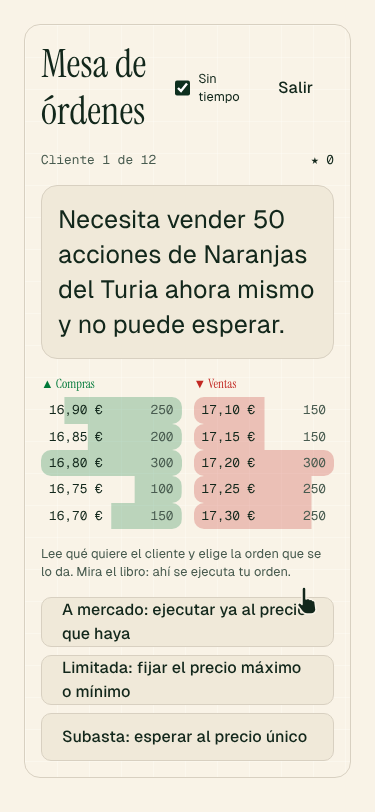
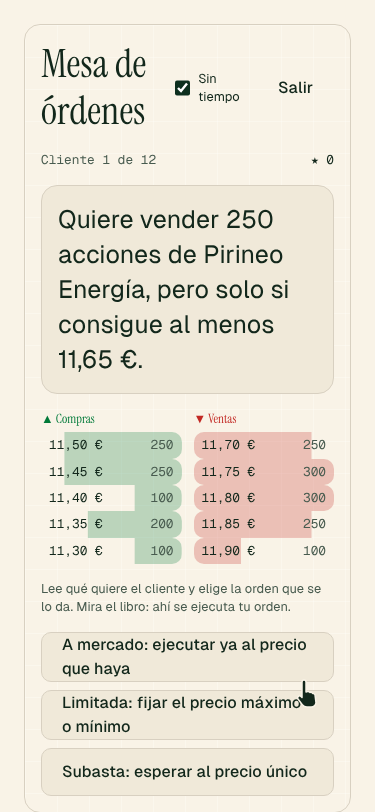
content: n5-u6 revisada (reviewed) tras la ronda 3; planta 4 (N5) completa
Claude-Session: https://claude.ai/code/session_01MmSrs1YdgLJhPMsRgWQM9q

Changed region(s): [[0.088, 0.2463, 0.9093, 0.9852]]

diff --git a/playwright.config.ts b/playwright.config.ts
@@ -75,6 +75,7 @@ export default defineConfig({
         'n5u3.spec.ts',
         'n5u4.spec.ts',
         'n5u5.spec.ts',
+        'n5u6.spec.ts',
         'hardening.spec.ts',
         'practicar.spec.ts',
         'sesion.spec.ts',

diff --git a/docs/TEMARIO.md b/docs/TEMARIO.md
@@ -91,7 +91,7 @@ PIB, IPC, paro, PMI · calendario macro · BCE, Fed, Banco de España, QE/QT · 
 Libro de órdenes · market makers, HFT, dark pools · subastas · costes reales de operar · cortos y préstamo de valores · análisis técnico con mirada crítica (evidencia y por qué la mayoría del minorista pierde) · eficiencia de mercado (formas débil, semifuerte y fuerte) y anomalías · gestión del riesgo de una operación (stop, tamaño de posición).
 🧮 probabilidad, valor esperado, contraste de hipótesis, p-valor e intervalos de confianza · 🏛 regla de los dos meses, compensación de pérdidas · 🧠 exceso de confianza, aversión a la pérdida · 📊 SI, BUSCARX · 📄 informe de la CNMV sobre resultados de inversores minoristas en CFD (o equivalente vigente).
 
-**Unidades de la planta 4 y su juego** (decididas el 25/10/2026; cada unidad abre con una tarjeta «Ya sabes» de lo visto en N1 y pasa a lo nuevo): 1. Libro de órdenes, market makers y dark pools (`n5-u1`: profundidad e impacto en pb, participación en el volumen, horquilla efectiva y realizada, selección adversa, market makers e inventario, HFT, dark pools y límites de volumen de MiFID II/MiFIR; explicador `MarketImpact`) → **Mesa de órdenes** (`n5-u1-l1`, ficha 3 en versión N5, hecho). 2. Subastas, fixing y costes reales de operar (`n5-u2`: subasta de cierre y fondos indexados, rangos estático y dinámico y subasta de volatilidad, fixing, VWAP y TWAP, implementation shortfall con coste de retraso y de oportunidad, comisiones y cánones, impuesto sobre las transacciones financieras, costes implícitos y ritmo de ejecución; explicador nuevo `CostStack`) → **Contra el VWAP** (`n5-u2-l1`, juego nuevo, hecho). 3. Ventas en corto y préstamo de valores (`n5-u3`: préstamo de valores, comisión y garantía, dividendo manufacturado, pérdida ilimitada frente a ganancia máxima del 100 %, margin call, días para cubrir y short squeeze, Reglamento (UE) 236/2012 con los umbrales del 0,1 % y el 0,5 % y las prohibiciones temporales, cobertura, long-short, arbitraje de fusiones y bajistas activistas; explicador `ShortSelling`) → **La posición corta** (`n5-u3-l1`, juego nuevo, hecho). 4. Probabilidad, valor esperado y contraste de hipótesis (`n5-u4`: valor esperado de una estrategia y punto muerto, desviación típica de una operación y error típico de la media, ley de los grandes números, probabilidad condicionada y Bayes con falsos positivos, hipótesis nula, p-valor, errores de tipo I y II, t ≈ Sharpe × √años, multiple testing, Bonferroni y data snooping; parte de n2-u4; explicador `ExpectedValue`) → **¿Ventaja real?** (`n5-u4-l1`, juego nuevo, hecho). 5. Análisis técnico, eficiencia de mercado y por qué pierde el minorista (`n5-u5`: soportes, resistencias, medias móviles y momentum con su evidencia, series aleatorias que parecen patrones, resultados después de costes, sesgo de supervivencia y anomalías que se van, eficiencia débil, semifuerte y fuerte, rentabilidad anormal, costes y rotación del minorista, CFD con las medidas de la ESMA y la CNMV; explicador `MarginCall`) → **¿Patrón o ruido?** (`n5-u5-l1`, juego nuevo, hecho). 6. Stop, tamaño de posición y sesgos al operar (`n5-u6`: stop loss y take profit, riesgo por operación y tamaño de posición, huecos, relación riesgo/beneficio, acierto mínimo y esperanza en R, exceso de confianza, aversión a la pérdida y efecto disposición, diario de operaciones con SI y BUSCARX; explicador `PositionSizing`) → **El trader con stop** (`n5-u6-l1`, variante de «El trader impulsivo» sobre `impulsive.ts`, draft).
+**Unidades de la planta 4 y su juego** (decididas el 25/10/2026; cada unidad abre con una tarjeta «Ya sabes» de lo visto en N1 y pasa a lo nuevo): 1. Libro de órdenes, market makers y dark pools (`n5-u1`: profundidad e impacto en pb, participación en el volumen, horquilla efectiva y realizada, selección adversa, market makers e inventario, HFT, dark pools y límites de volumen de MiFID II/MiFIR; explicador `MarketImpact`) → **Mesa de órdenes** (`n5-u1-l1`, ficha 3 en versión N5, hecho). 2. Subastas, fixing y costes reales de operar (`n5-u2`: subasta de cierre y fondos indexados, rangos estático y dinámico y subasta de volatilidad, fixing, VWAP y TWAP, implementation shortfall con coste de retraso y de oportunidad, comisiones y cánones, impuesto sobre las transacciones financieras, costes implícitos y ritmo de ejecución; explicador nuevo `CostStack`) → **Contra el VWAP** (`n5-u2-l1`, juego nuevo, hecho). 3. Ventas en corto y préstamo de valores (`n5-u3`: préstamo de valores, comisión y garantía, dividendo manufacturado, pérdida ilimitada frente a ganancia máxima del 100 %, margin call, días para cubrir y short squeeze, Reglamento (UE) 236/2012 con los umbrales del 0,1 % y el 0,5 % y las prohibiciones temporales, cobertura, long-short, arbitraje de fusiones y bajistas activistas; explicador `ShortSelling`) → **La posición corta** (`n5-u3-l1`, juego nuevo, hecho). 4. Probabilidad, valor esperado y contraste de hipótesis (`n5-u4`: valor esperado de una estrategia y punto muerto, desviación típica de una operación y error típico de la media, ley de los grandes números, probabilidad condicionada y Bayes con falsos positivos, hipótesis nula, p-valor, errores de tipo I y II, t ≈ Sharpe × √años, multiple testing, Bonferroni y data snooping; parte de n2-u4; explicador `ExpectedValue`) → **¿Ventaja real?** (`n5-u4-l1`, juego nuevo, hecho). 5. Análisis técnico, eficiencia de mercado y por qué pierde el minorista (`n5-u5`: soportes, resistencias, medias móviles y momentum con su evidencia, series aleatorias que parecen patrones, resultados después de costes, sesgo de supervivencia y anomalías que se van, eficiencia débil, semifuerte y fuerte, rentabilidad anormal, costes y rotación del minorista, CFD con las medidas de la ESMA y la CNMV; explicador `MarginCall`) → **¿Patrón o ruido?** (`n5-u5-l1`, juego nuevo, hecho). 6. Stop, tamaño de posición y sesgos al operar (`n5-u6`: stop loss y take profit, riesgo por operación y tamaño de posición, huecos, relación riesgo/beneficio, acierto mínimo y esperanza en R, exceso de confianza, aversión a la pérdida y efecto disposición, diario de operaciones con SI y BUSCARX; explicador `PositionSizing`) → **El trader con stop** (`n5-u6-l1`, variante de «El trader impulsivo» sobre `impulsive.ts`, hecho). La planta 4 está completa.
 
 **Planta 5 · Director — Carteras, riesgo y alternativos (N6, sem. 34–38)**
 Rentabilidad simple/log, TWR vs MWR · volatilidad, correlación, diversificación · Markowitz · CAPM y beta (estimación por regresión, beta ajustada y errores típicos; amplía lo visto en N3) · Sharpe, Sortino, ratio de información y tracking error, drawdown · VaR y CVaR · factores · pasiva vs activa, atribución de resultados (Brinson-Fachler) · **alternativos como inversión:** private equity, hedge funds, deuda privada, infraestructuras · ESG y SFDR · asset allocation (media-varianza, Black-Litterman y paridad de riesgo a nivel intuitivo) y rebalanceo · **Monte Carlo** y **trampas del backtesting** · efecto compuesto de las comisiones.

diff --git a/CONTENIDO-QA.md b/CONTENIDO-QA.md
@@ -608,3 +608,16 @@ Abre la planta 0 (unidad `n1-u1`). Juego: cinco noticias de Naranjas del Turia; 
 - **Ronda 2:** q12 pasa a «Muchas anomalías rinden menos después de publicarse».
 - **Ronda 3:** aprobada. Estado: `reviewed`. Bloom de aplicar o analizar: 7, 7, 6, 6 y 7 de 8, y 9 de 10. e2e de producción `n5u5.spec.ts`: pasa.
 - 🛑 Pendiente de la revisión de Javier: las cifras de Barber y Odean (2000), las medidas de la ESMA (2018) y de la CNMV (2019) sobre CFD y su estimación del 74 al 89 %, y el Anexo II de MiFID II. Las fuentes se citan por su URL raíz «(pendiente de verificar la ruta)».
+
+## n5-u6 — Stop, tamaño de posición y sesgos al operar y lección-juego «El trader con stop» (31/10/2026)
+
+- **Ronda 1 (revisor-financiero):** cambios necesarios.
+  - Mayores aplicados:
+    - l6-e5: 10.000 × 0,98^8 = 8.507,63 € (decía 8.507,46). La tolerancia lo absorbía, así que el validador estrena la regla `respuesta-redondeo`: answer debe ser la fórmula redondeada a answerDecimals, ± media unidad. Pasada por todo el contenido, solo detectó este caso;
+    - ejercicios de hoja de cálculo con casos ocultos que cambian el valor buscado por BUSCARX (el esquema admite textos en `hiddenCases.set`) y casos nuevos en l5-e2. El evaluador incorpora SI.ERROR, perezoso;
+    - l2-e1 y l2-e3 con el stop a un 4-10 % de la entrada (la posición nunca supera el 50 % del capital); l2-e6 solo con pasos de dependencia estricta;
+    - test de salto: q7 sobre los rangos de BUSCARX (fill_blank, porque el banco no admite hojas de cálculo) y q12 sobre el resultado de Odean (1998).
+  - Menores: la tarjeta «Tamaño» de l1 ya no da la posición en €; l2-e5 con 20.000 €, un 3 % y 8 pérdidas (15.674,87 €); l6-e2 con 1:2,25; l3-e4 y l4-e6 reformulados; cita de Tversky y Kahneman (1992) para el coeficiente de aversión a la pérdida; textos del juego sobre el stop sin hueco y la tentación; l5-e3 con 200 acciones.
+- **Ronda 2:** los suelos con ROUND(x − 0,5; 0) fallaban por coma flotante (249 en vez de 250). Ahora llevan un margen de 1e-9 y un test barre la rejilla completa de sus parámetros contra un suelo calculado en enteros.
+- **Ronda 3:** aprobada. Estado: `reviewed`. Bloom de aplicar o analizar: 7, 7, 7, 7 y 6 de 8, y 9 de 10. e2e de producción `n5u6.spec.ts`: pasa. Con esta unidad, la planta 4 (N5) tiene sus seis unidades. Una prueba en dev jugó las 36 lecciones: el Camino marca la planta 4 como completada y la 5 como próximamente.
+- 🛑 Pendiente de la revisión de Javier: las fuentes de finanzas conductuales (Shefrin y Statman, 1985; Kahneman y Tversky, 1979; Tversky y Kahneman, 1992; Odean, 1998; Barber y Odean, 2000) y la ayuda de Microsoft sobre SI y BUSCARX se citan por su URL raíz «(pendiente de verificar la ruta)».
